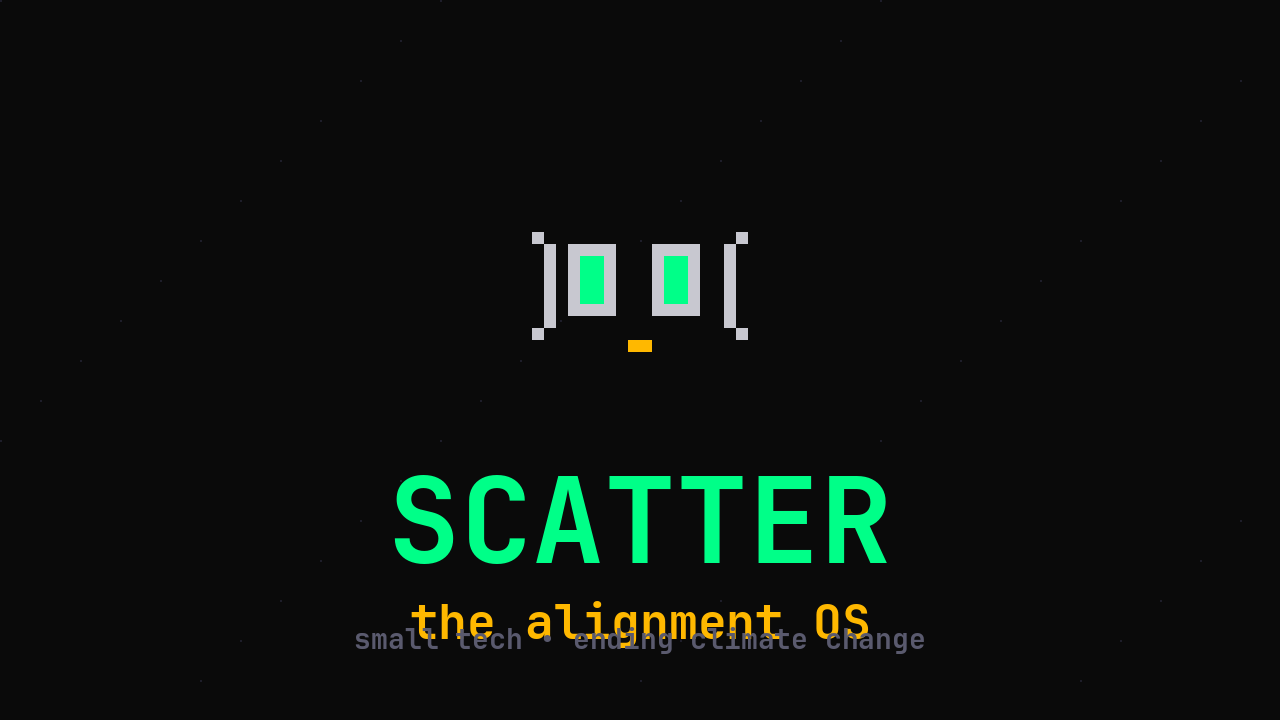
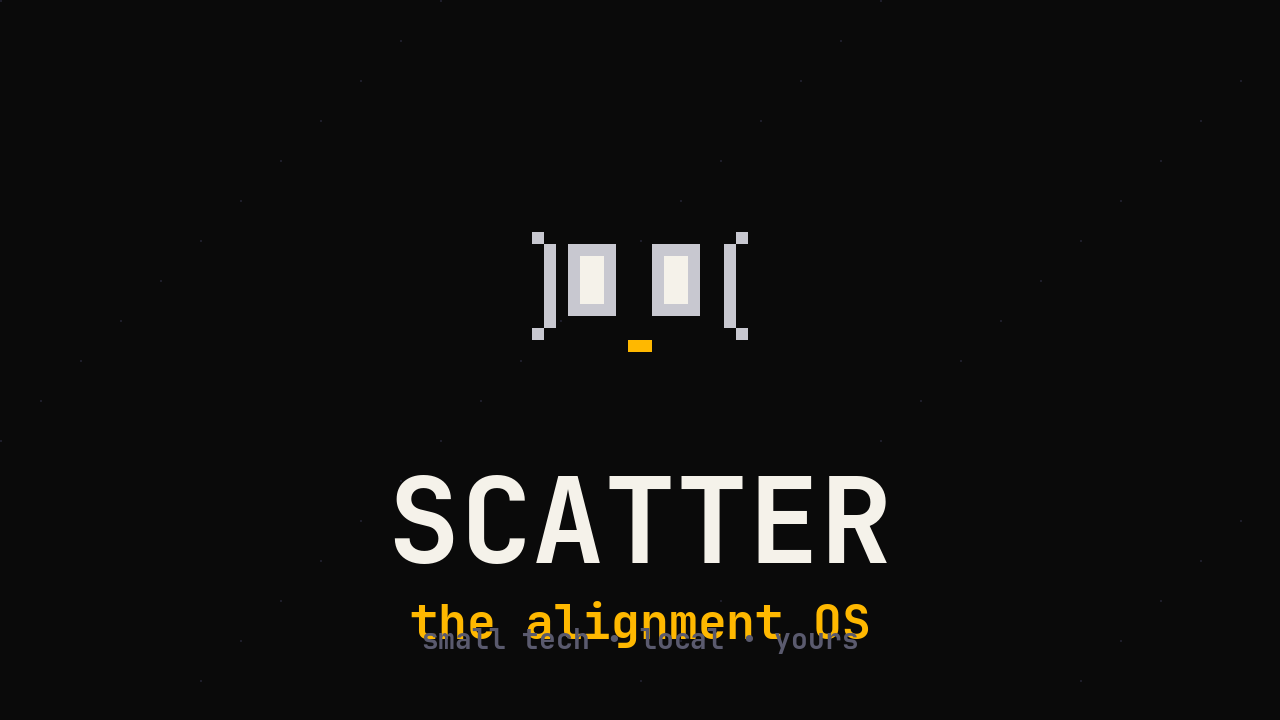
scatter-os-skin: plymouth animation frames + gdm greeter + grub refresh
Boot chrome pass, composing the durational title sequence across the
three pre-user surfaces (grub → plymouth → gdm).

- plymouth: 60-frame animation (frame-00..frame-59) replaces the dots;
  scatter.script drives timed sequence. Logo + background refreshed.
- gdm: greeter-logo, avatar, and 90-scatter dconf profile added; README
  documents the handoff from plymouth.
- grub: theme.txt + background/select_bg tuned to match the new palette.
- generate_assets.py regenerates the whole pipeline from source tokens.
- install.sh + install-plymouth.sh carry the updated install paths.

diff --git a/scatter-os-skin/generate_assets.py b/scatter-os-skin/generate_assets.py
@@ -5,14 +5,15 @@ from pathlib import Path
 from PIL import Image, ImageDraw, ImageFont
 
 BLACK = (10, 10, 10)
-GREEN = (0, 255, 136)
-AMBER = (255, 184, 0)
-TEXT  = (200, 200, 208)
-MUTED = (90, 90, 110)
+AMBER = (255, 184, 0)   # scatter-amber — single accent per surface
+BONE  = (245, 242, 234) # scatter-bone — wordmark, eyes, primary mark
+TEXT  = (200, 200, 208) # scatter-body — outlines, secondary mark
+MUTED = (90, 90, 110)   # scatter-quiet — footers, whispers
 
 HERE = Path(__file__).resolve().parent
 PLY  = HERE / "plymouth"
 GRUB = HERE / "grub"
+GDM  = HERE / "gdm"
 
 
 def font(size: int):
@@ -34,15 +35,15 @@ def draw_pixel_face(d: ImageDraw.ImageDraw, cx: int, cy: int, s: int):
     cell(-9, -4, TEXT); cell(-9, 4, TEXT)
     for y in range(-3, 4): cell(7, y, TEXT)
     cell(8, -4, TEXT); cell(8, 4, TEXT)
-    # eyes (outlined + green pupil)
+    # eyes (outlined + bone pupil)
     for x, y in [(-6,-3),(-5,-3),(-4,-3),(-3,-3),(-6,2),(-5,2),(-4,2),(-3,2),(-6,-2),(-6,-1),(-6,0),(-6,1),(-3,-2),(-3,-1),(-3,0),(-3,1)]:
         cell(x, y, TEXT)
     for x, y in [(-5,-2),(-4,-2),(-5,-1),(-4,-1),(-5,0),(-4,0),(-5,1),(-4,1)]:
-        cell(x, y, GREEN)
+        cell(x, y, BONE)
     for x, y in [(1,-3),(2,-3),(3,-3),(4,-3),(1,2),(2,2),(3,2),(4,2),(1,-2),(1,-1),(1,0),(1,1),(4,-2),(4,-1),(4,0),(4,1)]:
         cell(x, y, TEXT)
     for x, y in [(2,-2),(3,-2),(2,-1),(3,-1),(2,0),(3,0),(2,1),(3,1)]:
-        cell(x, y, GREEN)
+        cell(x, y, BONE)
     # mouth dot
     cell(-1, 5, AMBER); cell(0, 5, AMBER)
 
@@ -63,7 +64,7 @@ def splash(w=1920, h=1080, with_tagline=True):
     f_small = font(28)
     word = "SCATTER"
     tw = d.textlength(word, font=f_big)
-    d.text(((w - tw) / 2, h // 2 + 80), word, font=f_big, fill=GREEN)
+    d.text(((w - tw) / 2, h // 2 + 80), word, font=f_big, fill=BONE)
     if with_tagline:
         tag = "the alignment OS"
         tw2 = d.textlength(tag, font=f_tag)
@@ -74,7 +75,7 @@ def splash(w=1920, h=1080, with_tagline=True):
     return img
 
 
-def progress_dot(size=32, color=GREEN):
+def progress_dot(size=32, color=BONE):
     img = Image.new("RGBA", (size, size), (0, 0, 0, 0))
     d = ImageDraw.Draw(img)
     # pixel square dot (not round)
@@ -99,21 +100,39 @@ def main():
     f = font(100)
     word = "SCATTER"
     tw = d.textlength(word, font=f)
-    d.text(((800 - tw) / 2, 260), word, font=f, fill=GREEN)
+    d.text(((800 - tw) / 2, 260), word, font=f, fill=BONE)
     logo.save(PLY / "logo.png")
 
     # Progress dots for plymouth
-    progress_dot(32, GREEN).save(PLY / "dot.png")
+    progress_dot(32, BONE).save(PLY / "dot.png")
     progress_dot(32, AMBER).save(PLY / "dot-amber.png")
 
     # GRUB asset: simple 2-tone button for selection
     btn = Image.new("RGBA", (480, 64), (0, 0, 0, 0))
     bd = ImageDraw.Draw(btn)
-    bd.rectangle((0, 0, 479, 63), outline=GREEN + (255,), width=2)
-    bd.rectangle((0, 0, 3, 63), fill=GREEN + (255,))
+    bd.rectangle((0, 0, 479, 63), outline=AMBER + (255,), width=2)
+    bd.rectangle((0, 0, 3, 63), fill=AMBER + (255,))
     btn.save(GRUB / "select_bg.png")
 
-    print("assets written to", PLY, "and", GRUB)
+    # GDM distributor logo — small, restrained, single-accent.
+    # Shown at the bottom of the greeter. Replaces the Ubuntu orange square.
+    GDM.mkdir(parents=True, exist_ok=True)
+    greeter = Image.new("RGBA", (480, 120), (0, 0, 0, 0))
+    gd = ImageDraw.Draw(greeter)
+    draw_pixel_face(gd, cx=80, cy=60, s=4)
+    f = font(44)
+    word = "SCATTER"
+    tw = gd.textlength(word, font=f)
+    gd.text((140, 36), word, font=f, fill=BONE)
+    greeter.save(GDM / "greeter-logo.png")
+
+    # User avatar — HZL face on ink square, 256px (AccountsService standard).
+    avatar = Image.new("RGBA", (256, 256), BLACK + (255,))
+    ad = ImageDraw.Draw(avatar)
+    draw_pixel_face(ad, cx=128, cy=128, s=8)
+    avatar.save(GDM / "avatar.png")
+
+    print("assets written to", PLY, ",", GRUB, "and", GDM)
 
 
 if __name__ == "__main__":

diff --git a/scatter-os-skin/gdm/README.md b/scatter-os-skin/gdm/README.md
@@ -1,0 +1,19 @@
+# Scatter GDM greeter overrides
+
+What this ships:
+
+- `90-scatter` → `/etc/dconf/db/gdm.d/90-scatter` — dconf keyfile that
+  forces dark color scheme, yellow accent (closest named to amber),
+  black background, and swaps the distributor logo to the Scatter mark.
+- `greeter-logo.png` → `/usr/share/scatter/greeter-logo.png` — Scatter
+  distributor mark, generated by `../generate_assets.py`.
+- `avatar.png` → `/var/lib/AccountsService/icons/<user>` — user avatar,
+  generated by `../generate_assets.py`.
+
+Known gaps (tier-2 work):
+
+- The "Ubuntu" wordmark that appears at the greeter bottom is drawn by
+  gnome-shell's loginDialog, compiled into `libgnome-shell.so`. Killing
+  it requires rebuilding the shell gresource, deferred.
+- Yaru-yellow accent ≠ `#ffb800` exactly. Fully matching amber requires
+  shipping a custom shell theme gresource.
